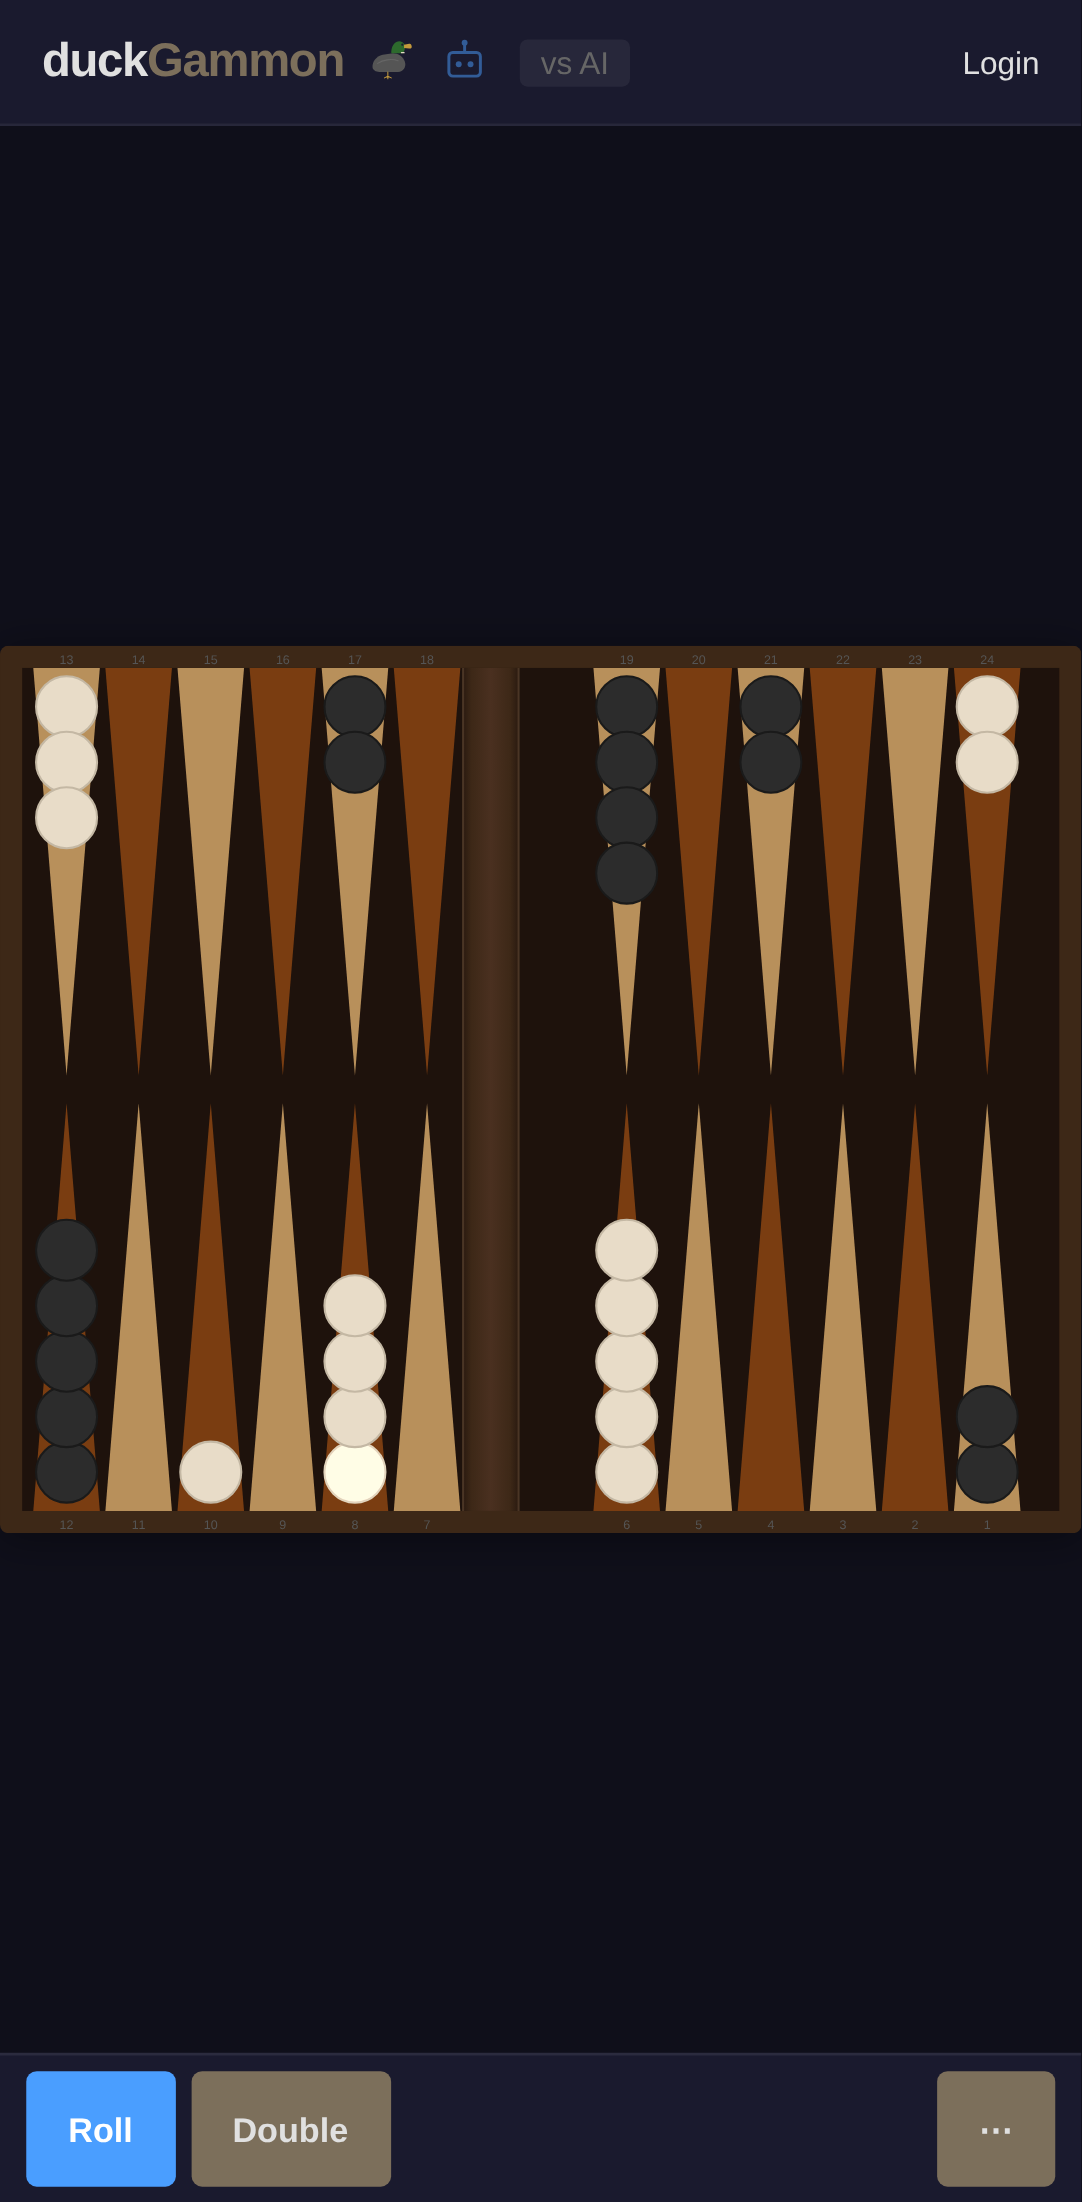
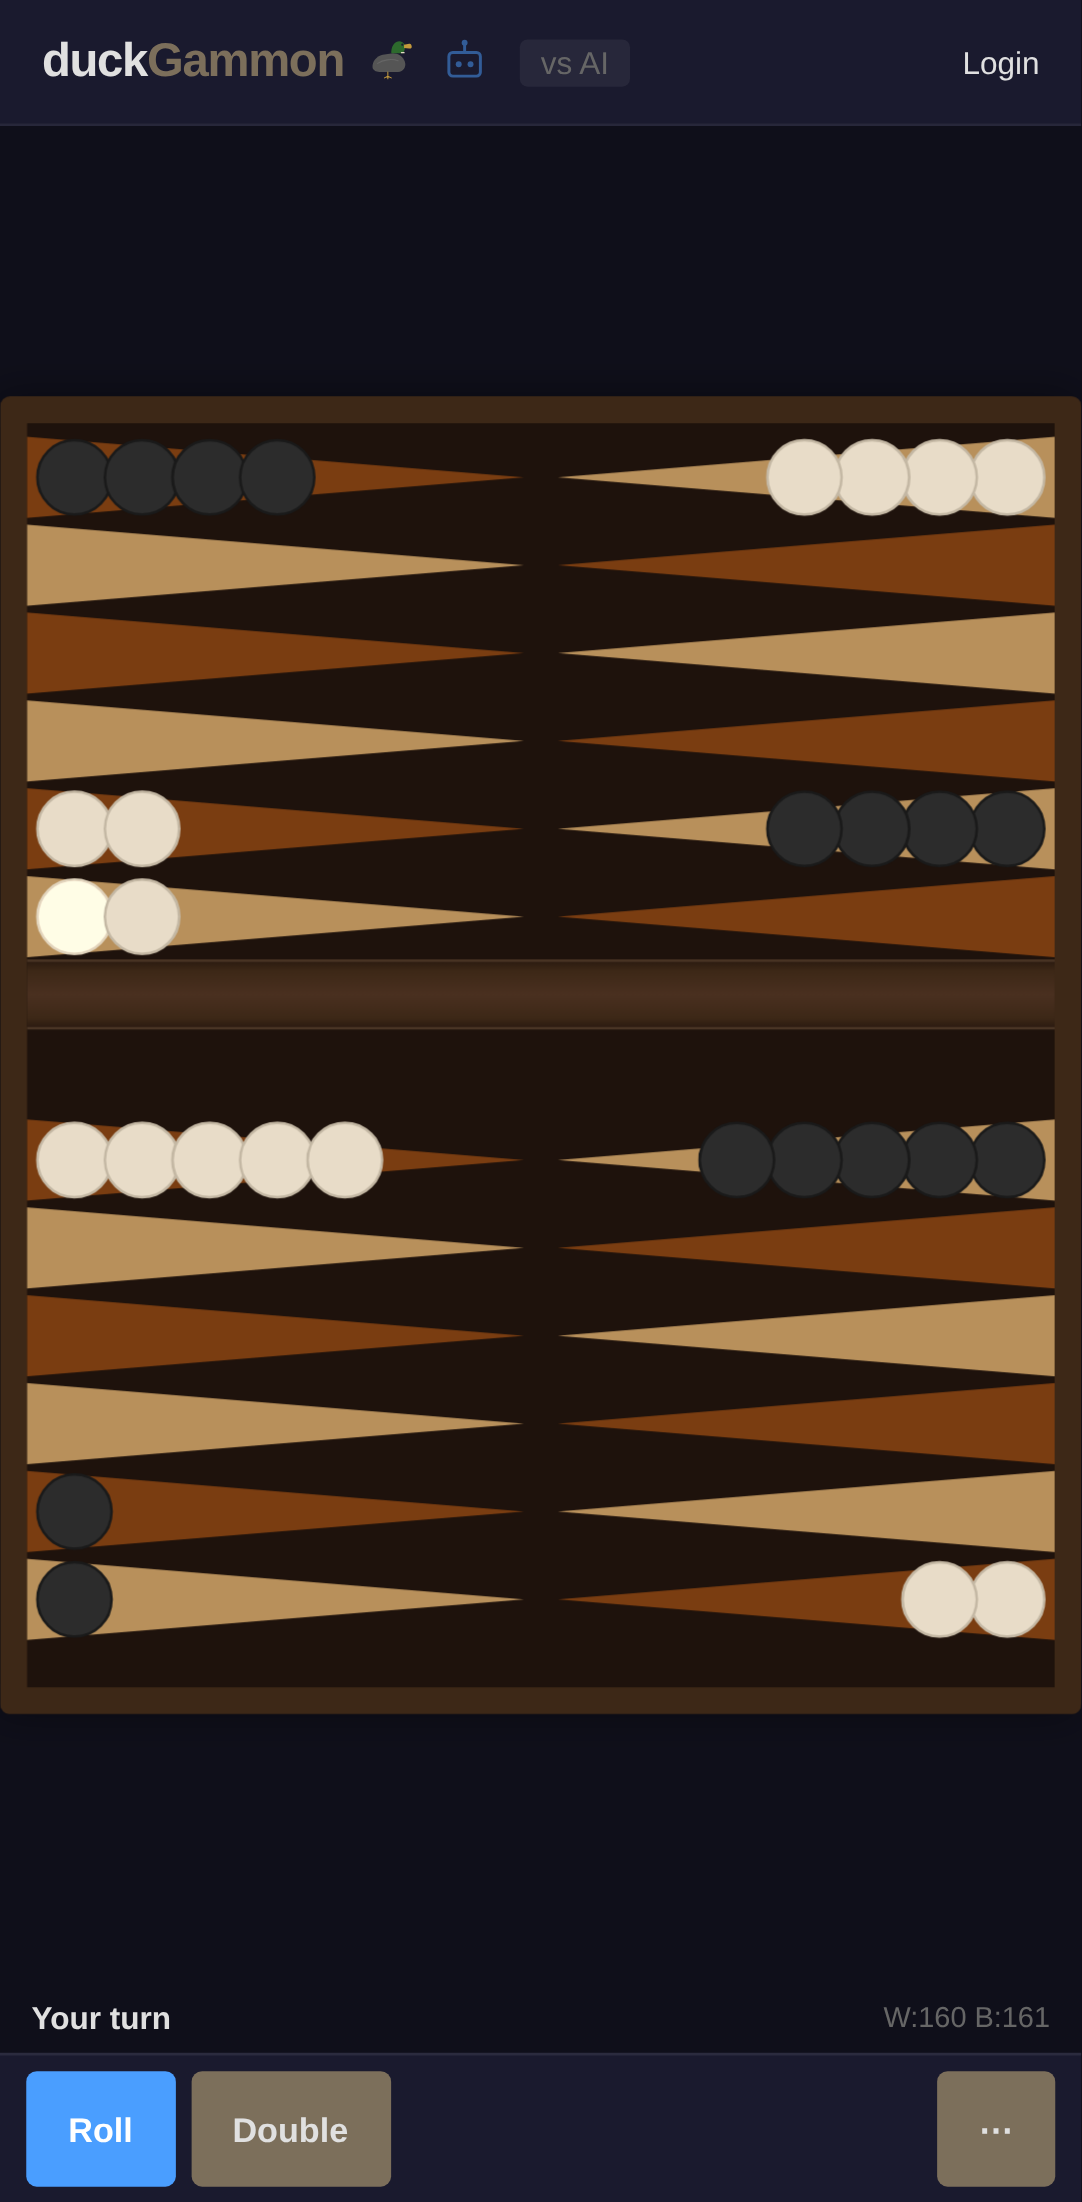
feat: portrait board rotation — 48% more board on mobile
Rotates the board 90° in portrait mode so points run vertically,
matching the industry-standard layout (Backgammon Galaxy, Lord of the Board).

Implementation:
- CSS rotate(90deg) on .board-wrapper with swapped width/height dimensions
- Pre-rotation: width = available height, height = viewport width
- After rotation: board displays in portrait orientation filling 502px
  instead of 338px on Pixel 7 (48% improvement)
- transform-origin: center keeps the board centered

Coordinate mapping:
- Switched clientCoordsToPoint from manual getBoundingClientRect math to
  SVG getScreenCTM().inverse() — correctly handles CSS transforms including
  rotation, scaling, and translation automatically
- Fallback to getBoundingClientRect for environments without getScreenCTM

Other:
- Point number labels hidden on mobile (rotated text is illegible)
- Desktop layout completely unchanged (media query scoped)
- All 220 vitest + 52 Playwright tests pass

diff --git a/src/ui/styles/board.css b/src/ui/styles/board.css
@@ -48,11 +48,14 @@
 /* ─── Mobile action bar (hidden on desktop) ─── */
 .mobile-action-bar { display: none; }
 .mobile-backdrop { display: none; }
+.mobile-info-strip { display: none; }
 
 /* ─── Mobile: board-first layout with floating action bar ─── */
 @media (max-width: 768px) {
   .board-container {
-    flex-direction: column;
+    display: grid;
+    grid-template-rows: 1fr auto auto;
+    grid-template-columns: 1fr;
     padding: 0;
     gap: 0;
     width: 100%;
@@ -61,26 +64,65 @@
   }
 
   .board-and-jail {
-    flex: 1 1 0;
-    min-height: 0;
-    width: 100%;
-    padding: 0;
-    justify-content: center;
+    display: flex;
+    flex-direction: column;
     align-items: center;
+    justify-content: center;
+    width: 100%;
+    min-height: 0;
     overflow: hidden;
+    padding: 0;
   }
 
+  /* ─── Portrait rotation: board rotated 90° so points run vertically ─── */
   .board-wrapper {
-    width: 100%;
-    max-height: 100%;
+    /* Pre-rotation: landscape dims that become portrait after rotate(90deg) */
+    /* width (→ visual height) = available vertical space */
+    width: calc(100vh - var(--header-height) - 90px);
+    /* height (→ visual width) = viewport width */
+    height: 100vw;
+    /* Cap so board aspect ratio is respected */
+    max-width: calc(100vw * 780 / 640);
+    position: relative;
+    flex-shrink: 0;
+    transform: rotate(90deg);
+    transform-origin: center;
   }
 
   .board-svg {
     display: block;
     width: 100%;
-    height: auto;
-    margin: 0 auto;
+    height: 100%;
+    margin: 0;
     filter: drop-shadow(0 2px 8px rgba(0, 0, 0, 0.4));
+  }
+
+  /* Hide point number labels — rotated text is illegible */
+  .board-svg text {
+    display: none;
+  }
+
+  /* Compact turn/pip info strip below board on mobile */
+  .mobile-info-strip {
+    display: flex;
+    justify-content: space-between;
+    align-items: center;
+    width: 100%;
+    padding: 6px 12px;
+    font-size: 12px;
+    color: var(--text-secondary);
+  }
+  .mobile-info-strip .turn-text {
+    font-weight: 600;
+    color: var(--text-primary);
+  }
+  .mobile-info-strip .pip-text {
+    font-size: 11px;
+    color: var(--text-muted);
+  }
+  .mobile-info-strip .cube-text {
+    font-size: 11px;
+    color: var(--accent);
   }
 
   /* ─── Side panel: hidden by default, slides in as overlay ─── */

diff --git a/src/ui/game/GameView.tsx b/src/ui/game/GameView.tsx
@@ -751,9 +751,23 @@ const GameView: Component<{ onExit: () => void; mode: GameMode; devPreset?: DevP
     const svg = document.querySelector('.board-svg') as SVGSVGElement | null;
     if (!svg) return null;
 
-    const rect = svg.getBoundingClientRect();
-    const svgX = ((clientX - rect.left) / rect.width) * BOARD_VIEWBOX.w;
-    const svgY = ((clientY - rect.top) / rect.height) * BOARD_VIEWBOX.h;
+    // Use getScreenCTM to correctly map screen coords → SVG coords
+    // This handles CSS transforms (rotation, scaling) automatically
+    const ctm = svg.getScreenCTM();
+    let svgX: number, svgY: number;
+    if (ctm) {
+      const pt = svg.createSVGPoint();
+      pt.x = clientX;
+      pt.y = clientY;
+      const svgPt = pt.matrixTransform(ctm.inverse());
+      svgX = svgPt.x;
+      svgY = svgPt.y;
+    } else {
+      // Fallback for environments without getScreenCTM
+      const rect = svg.getBoundingClientRect();
+      svgX = ((clientX - rect.left) / rect.width) * BOARD_VIEWBOX.w;
+      svgY = ((clientY - rect.top) / rect.height) * BOARD_VIEWBOX.h;
+    }
 
     if (svgX < 0 || svgX > BOARD_VIEWBOX.w || svgY < 0 || svgY > BOARD_VIEWBOX.h) return null;
 
@@ -1150,6 +1164,18 @@ const GameView: Component<{ onExit: () => void; mode: GameMode; devPreset?: DevP
           onBarClick={handleBarClick}
           onDragEnd={handleJailDragEnd}
         />
+      </div>
+
+      {/* Mobile info strip — turn, pips, cube — hidden on desktop */}
+      <div class="mobile-info-strip">
+        <span class="turn-text">{turnLabel()}</span>
+        <span class="pip-text">W:{whitePips()} B:{blackPips()}</span>
+        <Show when={currentState().cube.value > 1}>
+          <span class="cube-text">×{currentState().cube.value}</span>
+        </Show>
+        <Show when={currentState().phase === 'moving' && !isAiTurn()}>
+          <span class="pip-text">{currentState().movesLeft.join(', ')} left</span>
+        </Show>
       </div>
 
       {/* Mobile action bar — hidden on desktop */}

diff --git a/tests/visual/mobile.spec.ts b/tests/visual/mobile.spec.ts
@@ -52,10 +52,10 @@ test.describe('Mobile layout', () => {
     const viewportSize = page.viewportSize()!;
 
     expect(boardBox).not.toBeNull();
-    // Board should not exceed viewport width
+    // Board should not exceed viewport dimensions
     expect(boardBox!.width).toBeLessThanOrEqual(viewportSize.width + 1);
-    // Board should not exceed 60% of viewport height (leave room for panel)
-    expect(boardBox!.height).toBeLessThanOrEqual(viewportSize.height * 0.65);
+    // With portrait rotation, board can fill up to ~85% of viewport height
+    expect(boardBox!.height).toBeLessThanOrEqual(viewportSize.height * 0.85);
     // Board should be visible (not zero-sized)
     expect(boardBox!.width).toBeGreaterThan(100);
     expect(boardBox!.height).toBeGreaterThan(100);
